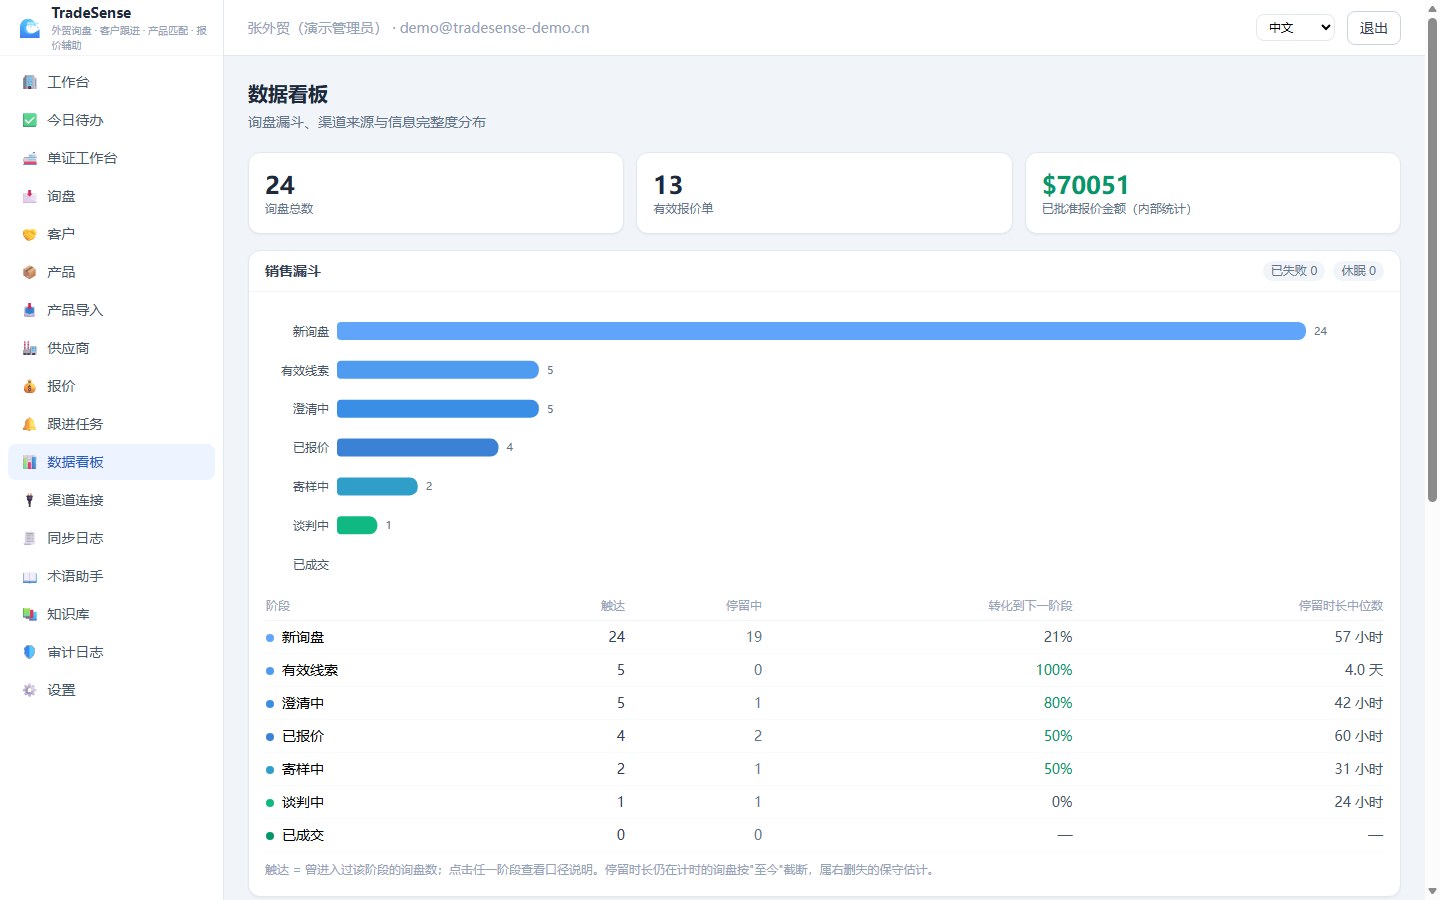
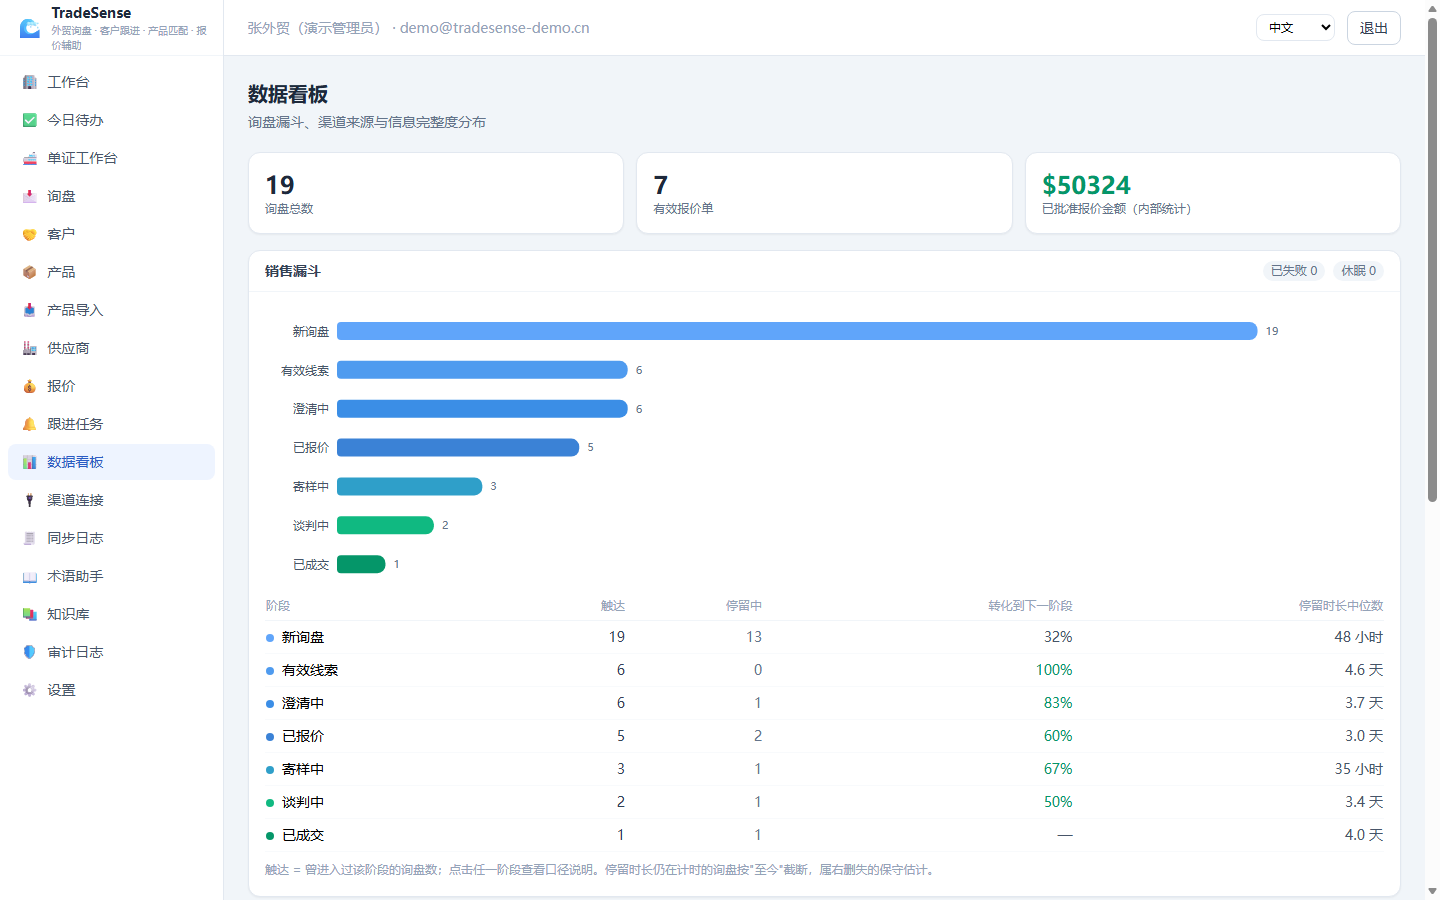
已成交演示场景 S16（漏斗终点有数据，转化链完整），报价表单卡新增成本来源选择（阶梯价/供应商报价）与生效汇率预览（GET /api/fx/resolve 登录即可），种子汇率精度修正；重拍漏斗截图

diff --git a/frontend/src/pages/InquiryDetail.tsx b/frontend/src/pages/InquiryDetail.tsx
@@ -458,17 +458,32 @@ interface QuoteDetail extends Quote {
 function QuotesTab({ iid }: { iid: number }) {
   const qc = useQueryClient();
   const [detail, setDetail] = useState<number | null>(null);
-  const [form, setForm] = useState({ product_id: "", quantity: "1000", incoterm: "FOB", margin_rate: "0.15", printing: false });
-  const products = useQuery({ queryKey: ["products-lite"], queryFn: () => get<{ items: { id: number; sku: string; name_en: string }[] }>("/products?page=1&page_size=100") });
+  const [form, setForm] = useState({ product_id: "", quantity: "1000", incoterm: "FOB", margin_rate: "0.15", printing: false, supplier_product_id: "" });
+  const products = useQuery({ queryKey: ["products-lite"], queryFn: () => get<{ items: { id: number; sku: string; name_en: string; currency: string }[] }>("/products?page=1&page_size=100") });
   const quotes = useQuery({ queryKey: ["quotes", iid], queryFn: () => get<{ items: Quote[] }>(`/quotes/by-inquiry/${iid}`) });
   const create = useMutation({
-    mutationFn: () => post("/quotes", { inquiry_id: iid, product_id: Number(form.product_id), quantity: Number(form.quantity), incoterm: form.incoterm, margin_rate: Number(form.margin_rate), printing: form.printing }),
+    mutationFn: () => post("/quotes", { inquiry_id: iid, product_id: Number(form.product_id), quantity: Number(form.quantity), incoterm: form.incoterm, margin_rate: Number(form.margin_rate), printing: form.printing, ...(form.supplier_product_id ? { supplier_product_id: Number(form.supplier_product_id) } : {}) }),
     onSuccess: () => { qc.invalidateQueries({ queryKey: ["quotes", iid] }); qc.invalidateQueries({ queryKey: ["inquiry", iid] }); },
   });
   const detailQ = useQuery({
     queryKey: ["quote", detail],
     queryFn: () => get<QuoteDetail>(`/quotes/${detail}`),
     enabled: !!detail,
+  });
+  const selProduct = products.data?.items.find((p) => p.id === Number(form.product_id));
+  const supplierQuotes = useQuery({
+    queryKey: ["supplier-quotes", form.product_id],
+    queryFn: () => get<{ items: { id: number; supplier_name: string; cost_price: number; currency: string; lead_time_days: number }[] }>(
+      `/products/${form.product_id}/supplier-quotes`),
+    enabled: !!form.product_id,
+  });
+  const selSupplier = supplierQuotes.data?.items.find((q) => q.id === Number(form.supplier_product_id));
+  const costCcy = selSupplier?.currency || selProduct?.currency || "USD";
+  const fxPreview = useQuery({
+    queryKey: ["fx-resolve", costCcy],
+    queryFn: () => get<{ from_currency: string; to_currency: string; rate: number; configured: boolean }>(
+      `/fx/resolve?from_ccy=${costCcy}&to_ccy=USD`),
+    enabled: !!selProduct && costCcy !== "USD",
   });
   const approve = useMutation({
     mutationFn: (id: number) => post(`/quotes/${id}/approve`),
@@ -552,12 +567,25 @@ function QuotesTab({ iid }: { iid: number }) {
         <div className="space-y-3">
           <div>
             <label className="label">产品</label>
-            <select className="input" value={form.product_id} onChange={(e) => setForm({ ...form, product_id: e.target.value })}>
+            <select className="input" value={form.product_id} onChange={(e) => setForm({ ...form, product_id: e.target.value, supplier_product_id: "" })}>
               <option value="">选择产品…</option>
               {products.data?.items.map((p) => (
                 <option key={p.id} value={p.id}>{p.sku} · {p.name_en}</option>
               ))}
             </select>
+            {form.product_id && (
+              <>
+                <label className="label mt-2">成本来源</label>
+                <select className="input" value={form.supplier_product_id} onChange={(e) => setForm({ ...form, supplier_product_id: e.target.value })}>
+                  <option value="">产品阶梯价</option>
+                  {supplierQuotes.data?.items.map((q) => (
+                    <option key={q.id} value={q.id}>
+                      供应商：{q.supplier_name} · {q.currency} {q.cost_price} · {q.lead_time_days}天
+                    </option>
+                  ))}
+                </select>
+              </>
+            )}
           </div>
           <div className="grid grid-cols-2 gap-2">
             <div>
@@ -579,6 +607,15 @@ function QuotesTab({ iid }: { iid: number }) {
             <input type="checkbox" checked={form.printing} onChange={(e) => setForm({ ...form, printing: e.target.checked })} />
             含 Logo 印刷（版费摊销）
           </label>
+          {selProduct && costCcy !== "USD" && (
+            <p className={`rounded-lg px-2.5 py-1.5 text-xs leading-4 ${fxPreview.data?.configured ? "bg-slate-50 text-slate-500" : "bg-amber-50 text-amber-700"}`}>
+              {fxPreview.data
+                ? fxPreview.data.configured
+                  ? `成本为 ${costCcy}，将按汇率表 1 ${costCcy} ≈ ${fxPreview.data.rate.toPrecision(6)} USD 折算（另加 2% 缓冲）`
+                  : `汇率表未配置 ${costCcy}/USD，将按 1:1 折算并在报价中提示缺失；请到「设置 → 汇率」录入`
+                : "正在查询生效汇率…"}
+            </p>
+          )}
           <button className="btn-primary w-full justify-center" disabled={!form.product_id || create.isPending} onClick={() => create.mutate()}>
             {create.isPending ? "计算中…" : "计算并创建草稿"}
           </button>

diff --git a/backend/app/seed/inquiries.py b/backend/app/seed/inquiries.py
@@ -15,6 +15,7 @@ S12 同一消息两种颜色 → conflicting
 S13 休眠客户重新激活
 S14 CPC 认证儿童杯
 S15 样品 + 付款方式多轮
+S16 已成交（漏斗终点演示，含完整阶段链）
 """
 from __future__ import annotations
 
@@ -194,6 +195,21 @@ def seed_inquiries(db: Session, org_id: int, user_id: int) -> None:
     _say(db, org_id, i15, "Payment terms: we usually do 30% deposit and 70% against B/L copy.",
          days_offset=2)
     _match(db, org_id, i15)
+
+    # ---- S16 已成交（漏斗终点演示） --------------------------------------------------
+    c16, t16 = _cust(db, org_id, "GiftingHouse Ltd", "United Kingdom", "email",
+                     "Oliver Grant", "oliver@giftinghouse.co.uk", "won", 12)
+    i16 = _mk_inquiry(db, org_id, user_id, c16, t16, "Travel mugs 1200pcs — corporate gift order",
+                      channel="email", status_="won", stage="won", created_days_ago=40)
+    _say(db, org_id, i16, "We need 1,200 insulated travel mugs 450ml with our logo, FOB Felixstowe, "
+                          "delivery within 45 days of order.", days_offset=38)
+    _match(db, org_id, i16)
+    _quote(db, org_id, i16, "TS-TM-001", 1200, "FOB", margin=0.18, approve=True,
+           printing=True, dest_iso="GB", days_ago=30)
+    inq_status = db.get(Inquiry, i16.id)
+    inq_status.status = "won"
+    inq_status.stage = "won"
+    db.flush()
 
     # ------------------------------------------------------------ 回复草稿
     for inq, kind, tone in ((i1, "first_reply", "formal"),

diff --git a/backend/app/api/routes/fx.py b/backend/app/api/routes/fx.py
@@ -1,17 +1,17 @@
 """汇率配置路由：手工维护，manager+。存储方向按币种字母序规范化。"""
 from __future__ import annotations
 
-from fastapi import APIRouter, Depends, HTTPException, status
+from fastapi import APIRouter, Depends, HTTPException, Query, status
 from pydantic import BaseModel, Field
 from sqlalchemy import select
 from sqlalchemy.orm import Session
 
 from ...database import get_db
-from ...deps import OrgScope
+from ...deps import OrgScope, get_scope
 from ...models import ExchangeRate, User
 from ...rbac import require_role
 from ...services.audit import audit
-from ...services.fx import normalize
+from ...services.fx import MISSING, normalize, resolve
 
 router = APIRouter(prefix="/fx", tags=["fx"])
 
@@ -22,6 +22,16 @@ class FxSetIn(BaseModel):
     base_currency: str = Field(pattern=CCY)
     quote_currency: str = Field(pattern=CCY)
     rate: float = Field(gt=0)
+
+
+@router.get("/resolve")
+def resolve_rate(from_ccy: str = Query(..., min_length=3, max_length=3),
+                 to_ccy: str = Query(..., min_length=3, max_length=3),
+                 scope: OrgScope = Depends(get_scope), db: Session = Depends(get_db)):
+    """报价面板预览当前生效汇率：登录即可（member 也要能看），不含任何敏感配置。"""
+    rate, note = resolve(db, scope.org_id, from_ccy, to_ccy)
+    return {"from_currency": from_ccy.upper(), "to_currency": to_ccy.upper(),
+            "rate": rate, "configured": not note.startswith(MISSING)}
 
 
 @router.get("")

diff --git a/backend/tests/test_fx.py b/backend/tests/test_fx.py
@@ -126,6 +126,27 @@ def test_quote_integration_fx_table_and_explicit_override(client, org, other_org
     assert any("汇率" in m for m in d3["missing"])
 
 
+def test_resolve_endpoint_visible_to_all_logged_in(client, db):
+    """报价面板的汇率预览：member 可读，未配置时 configured=false 且回退 1.0。"""
+    from app.models import User
+    from app.security import hash_password
+    db.add(User(org_id=1, email="fxmember2@test.cn", name="m2",
+                password_hash=hash_password("password123"), role="member"))
+    db.commit()
+    member = auth_headers(client, "fxmember2@test.cn")
+
+    r = client.get("/api/fx/resolve", params={"from_ccy": "USD", "to_ccy": "CNY"}, headers=member)
+    assert r.status_code == 200, r.text
+    body = r.json()
+    assert body["configured"] is False and body["rate"] == 1.0
+
+    _set_rate(db, 1, "CNY", "USD", 1 / 7.2)
+    body = client.get("/api/fx/resolve", params={"from_ccy": "USD", "to_ccy": "cny"},
+                      headers=member).json()
+    assert body["configured"] is True
+    assert body["rate"] == pytest.approx(7.2)
+
+
 def test_fx_api_permission(client, db):
     from app.models import User
     from app.security import hash_password

diff --git a/backend/app/seed/run.py b/backend/app/seed/run.py
@@ -357,7 +357,7 @@ def seed_demo(db: Session) -> None:
     # ------------------------------------------------- 汇率表（第六阶段演示，手工口径）
     # 存储方向按币种字母序规范化：CNY/USD 存 1/7.2（等值 USD/CNY=7.2）、EUR/USD 存 1.08
     db.add(ExchangeRate(org_id=org.id, base_currency="CNY", quote_currency="USD",
-                        rate=round(1 / 7.2, 8), updated_by_user_id=user.id))
+                        rate=1 / 7.2, updated_by_user_id=user.id))
     db.add(ExchangeRate(org_id=org.id, base_currency="EUR", quote_currency="USD",
                         rate=1.08, updated_by_user_id=user.id))
     db.flush()
